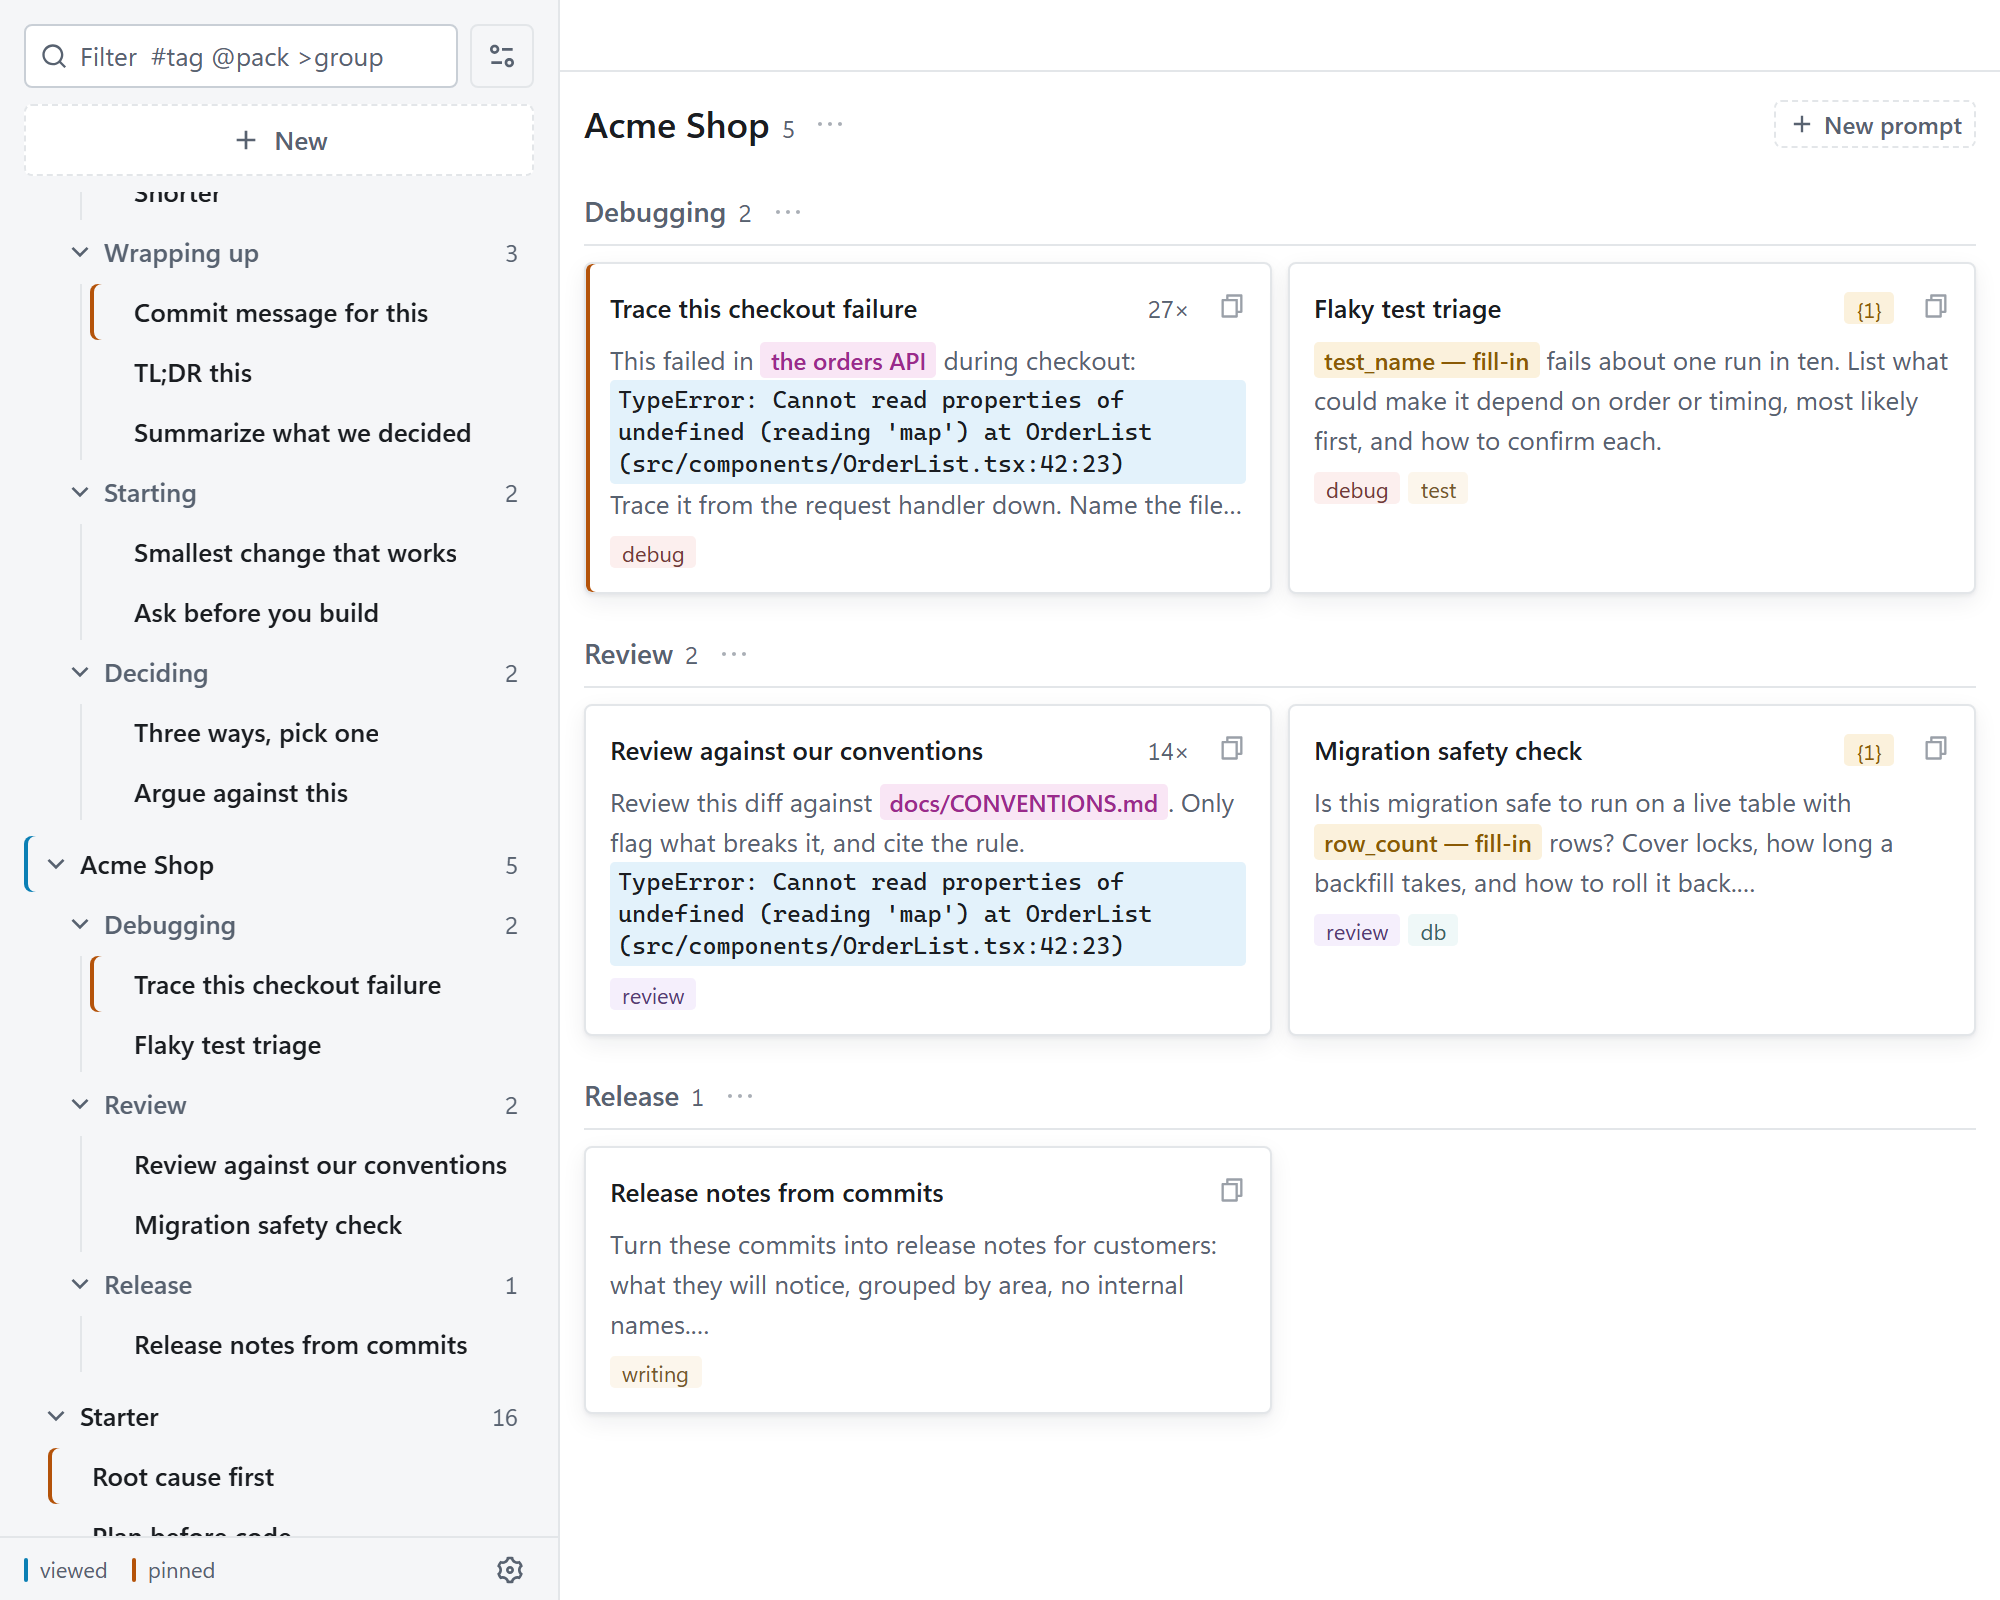
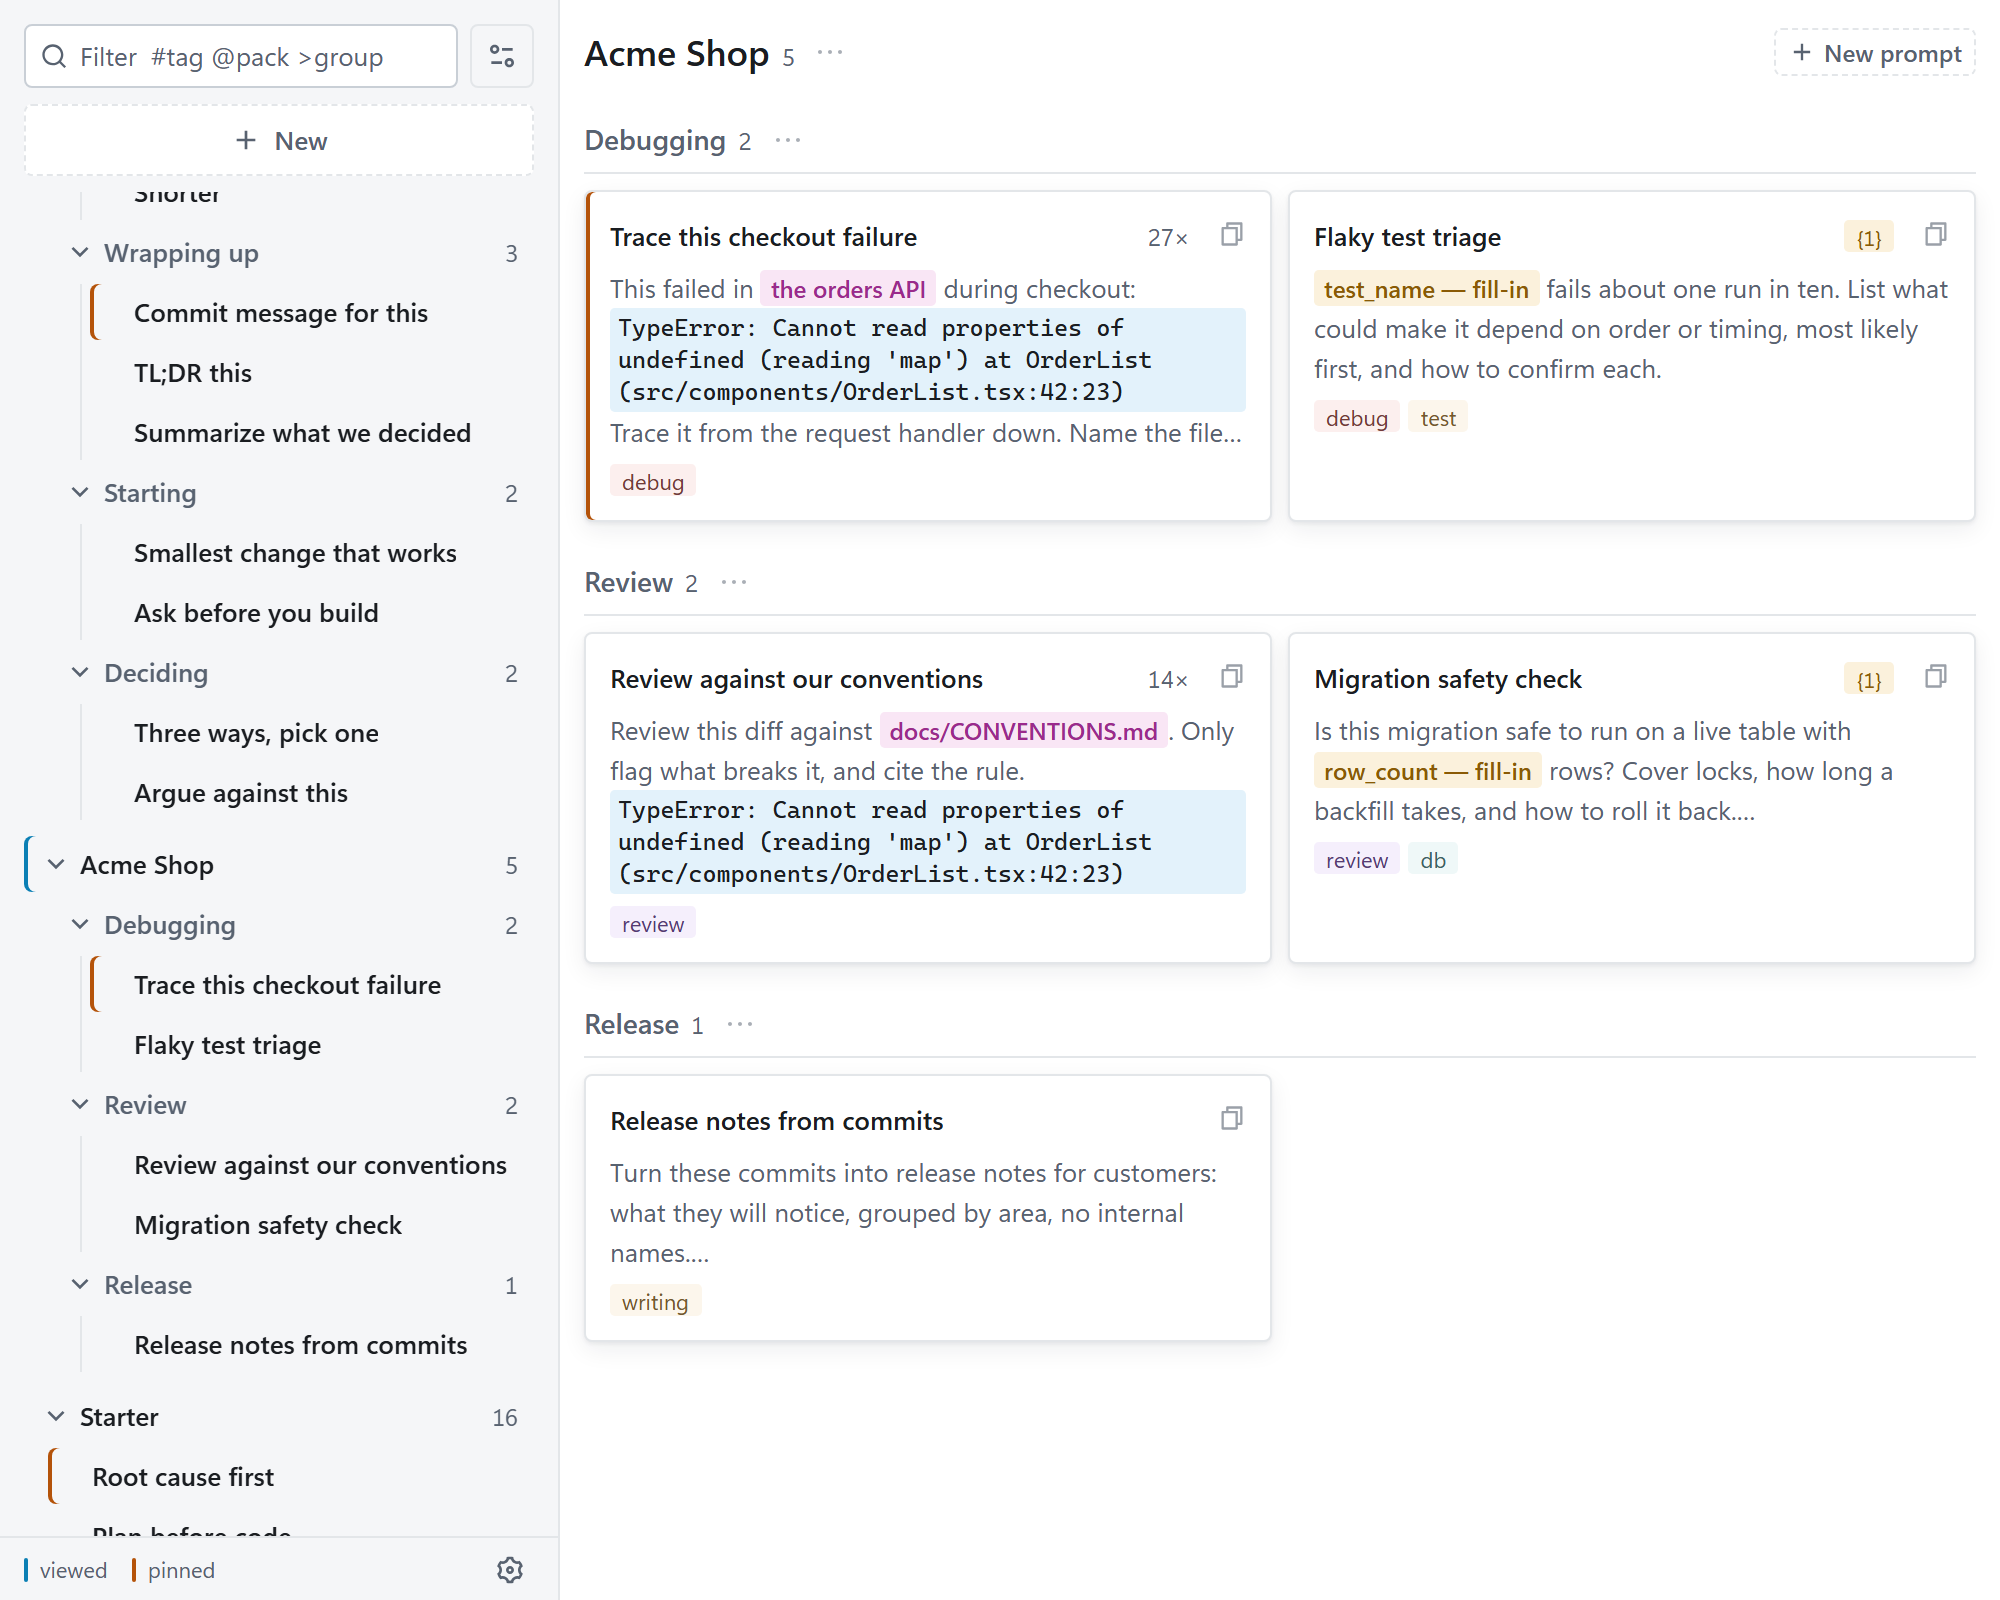
Manager: no bar above the pane without a crumb line
The bar above the pane stayed as an empty ruled strip over an overview
or Settings once the gear had left it. The bar is the crumb line's own
element now (EditorCrumbs draws it with its height, rule and padding),
so it is there with an open prompt and gone otherwise. BEHAVIOR.md says
so; screenshots regenerated.

diff --git a/src/manager/App.tsx b/src/manager/App.tsx
@@ -648,14 +648,11 @@ export function App() {
           <Sidebar />
           <div className="flex min-w-0 flex-1 flex-col">
             {/* The bar above the pane is the open prompt's crumb line (where
-                it sits, its use count, Pin, its menu); the Settings gear
-                that stood here alone lives in the sidebar's foot since
-                2026-10-10. Its side padding is the pane's 12 px plus the
-                13 px a card's border and padding take, so the crumbs,
-                the title and a card's header text start on one line. */}
-            <div className="flex h-9 shrink-0 items-center border-b border-border px-[25px]">
-              <EditorCrumbs />
-            </div>
+                it sits, its use count, Pin, its menu), and only that: with
+                an overview or Settings in the pane there is no bar (an empty
+                ruled strip stood there, 2026-10-10). The Settings gear that
+                stood here alone lives in the sidebar's foot. */}
+            <EditorCrumbs />
             {settingsOpen ? (
               <Settings />
             ) : view.kind === "overview" ? (

diff --git a/src/manager/Editor.tsx b/src/manager/Editor.tsx
@@ -124,8 +124,12 @@ export function EditorCrumbs() {
         count, the Pin toggle (pressed while pinned, in the pin's Warn) and
         the ⋯ menu, 24 px tall each and 8 px apart. The line is the UI
         size: at 12 px it read as a caption, and "pinned" as a word in the
-        line said a state without offering the switch (2026-10-10). */}
-    <div className="flex min-w-0 flex-1 items-center gap-1 text-ui text-muted-foreground">
+        line said a state without offering the switch (2026-10-10). The
+        bar's side padding is the pane's 12 px plus the 13 px a card's
+        border and padding take, so the crumbs, the title and a card's
+        header text start on one line, and the right group ends where a
+        card's own controls end. */}
+    <div className="flex h-9 shrink-0 items-center gap-1 border-b border-border px-[25px] text-ui text-muted-foreground">
       <button
         type="button"
         className="min-w-0 cursor-pointer truncate rounded-sm font-medium hover:text-foreground focus-ring"

diff --git a/BEHAVIOR.md b/BEHAVIOR.md
@@ -1546,7 +1546,8 @@ gone and the "Prompts" heading with it (the window is Promptline and the
 list is visibly prompts; the landmark keeps its name through
 `aria-label`), the sidebar is search, Display, New, the tree and a foot
 that holds the bar legend and the Settings gear; the bar above the pane
-is the open prompt's crumb line. Until 2026-10-10 the gear stood alone
+is the open prompt's crumb line, and there is no bar while an overview
+or Settings is in the pane. Until 2026-10-10 the gear stood alone
 in that bar and the crumbs were the editor's first line; the user wanted
 the crumbs up there and the gear out of the pane's way.
 
